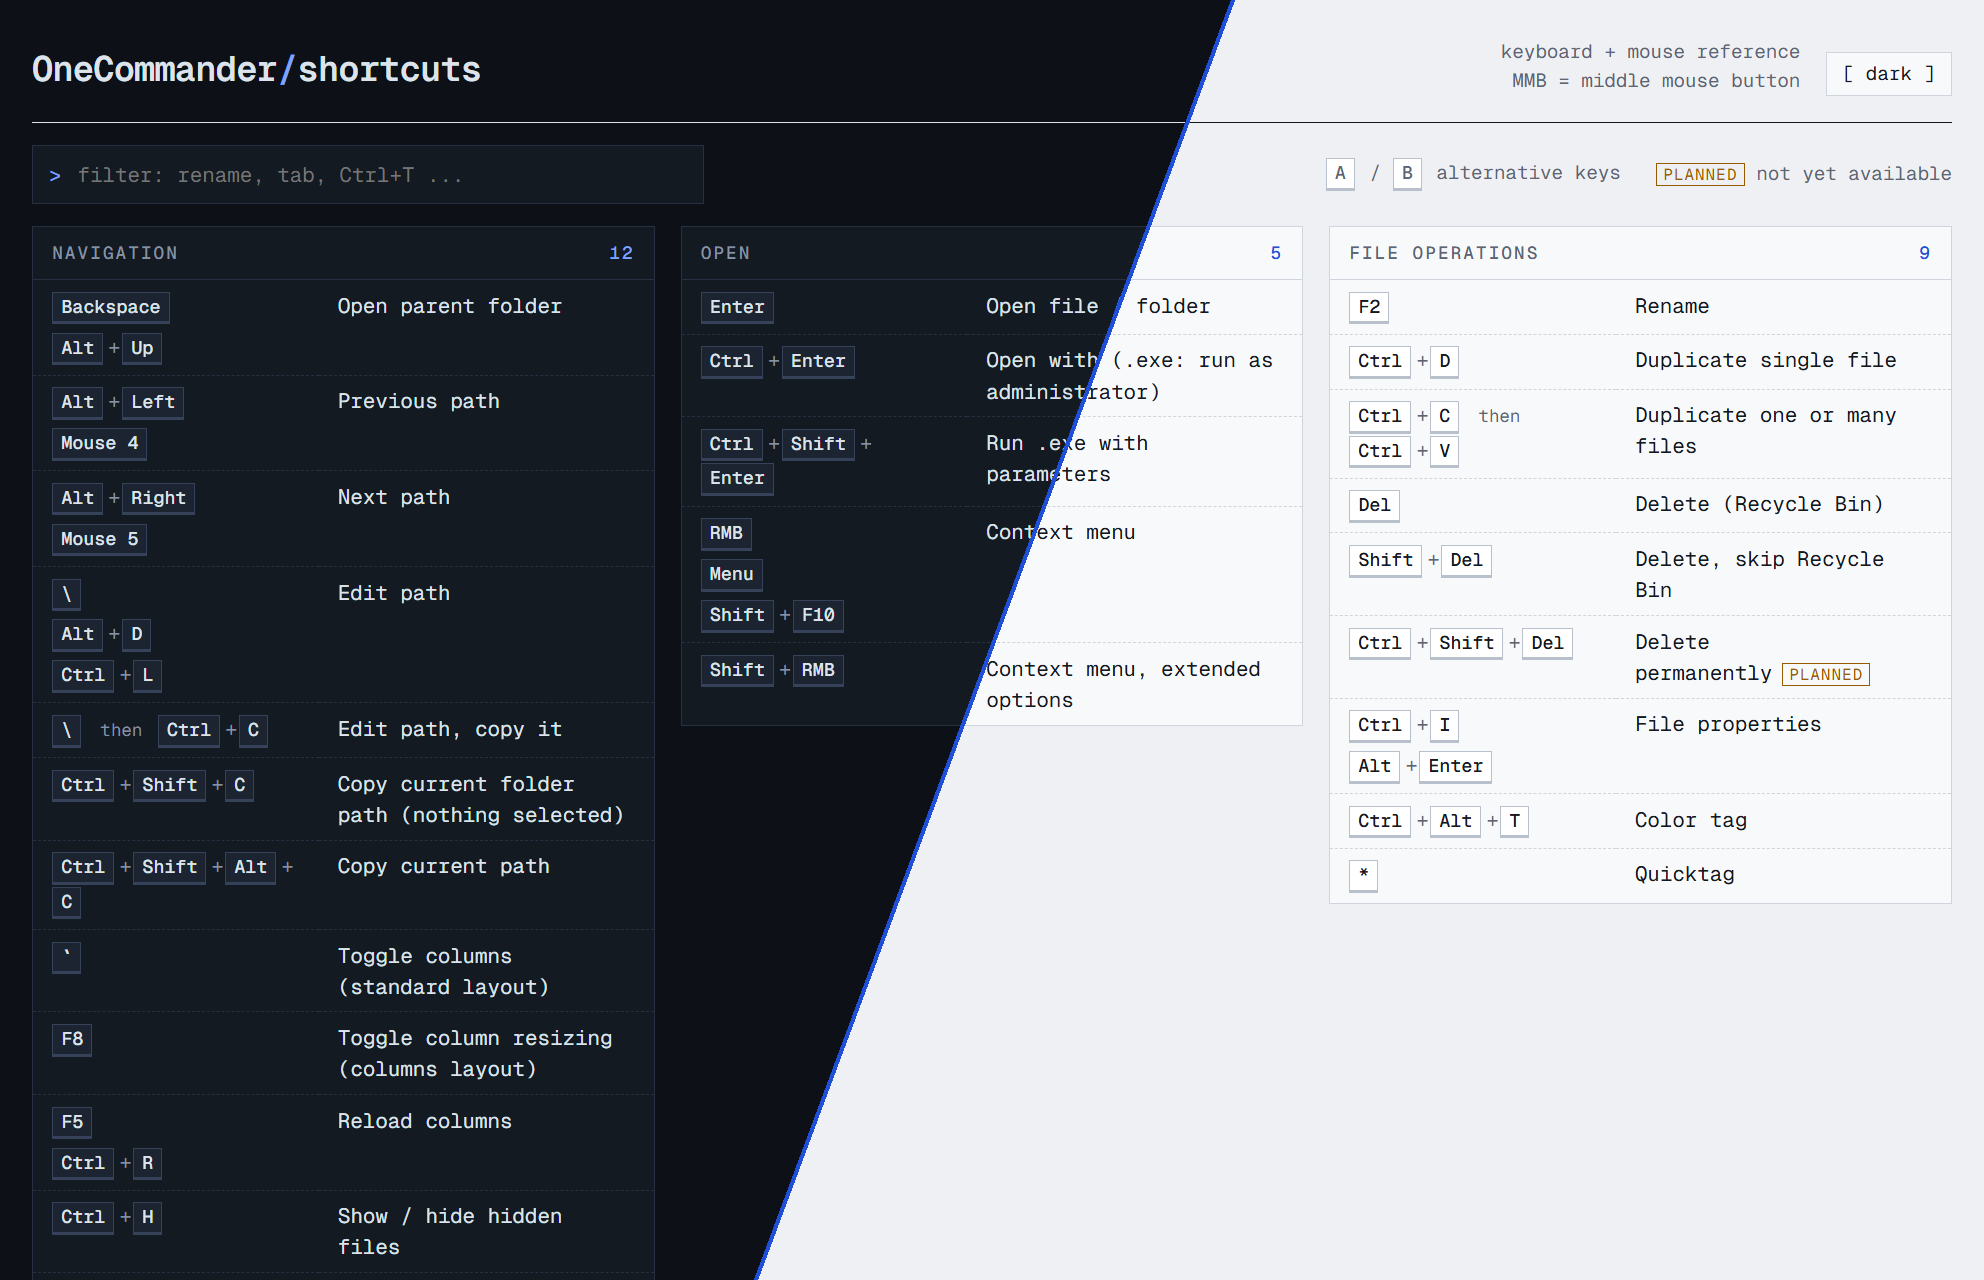
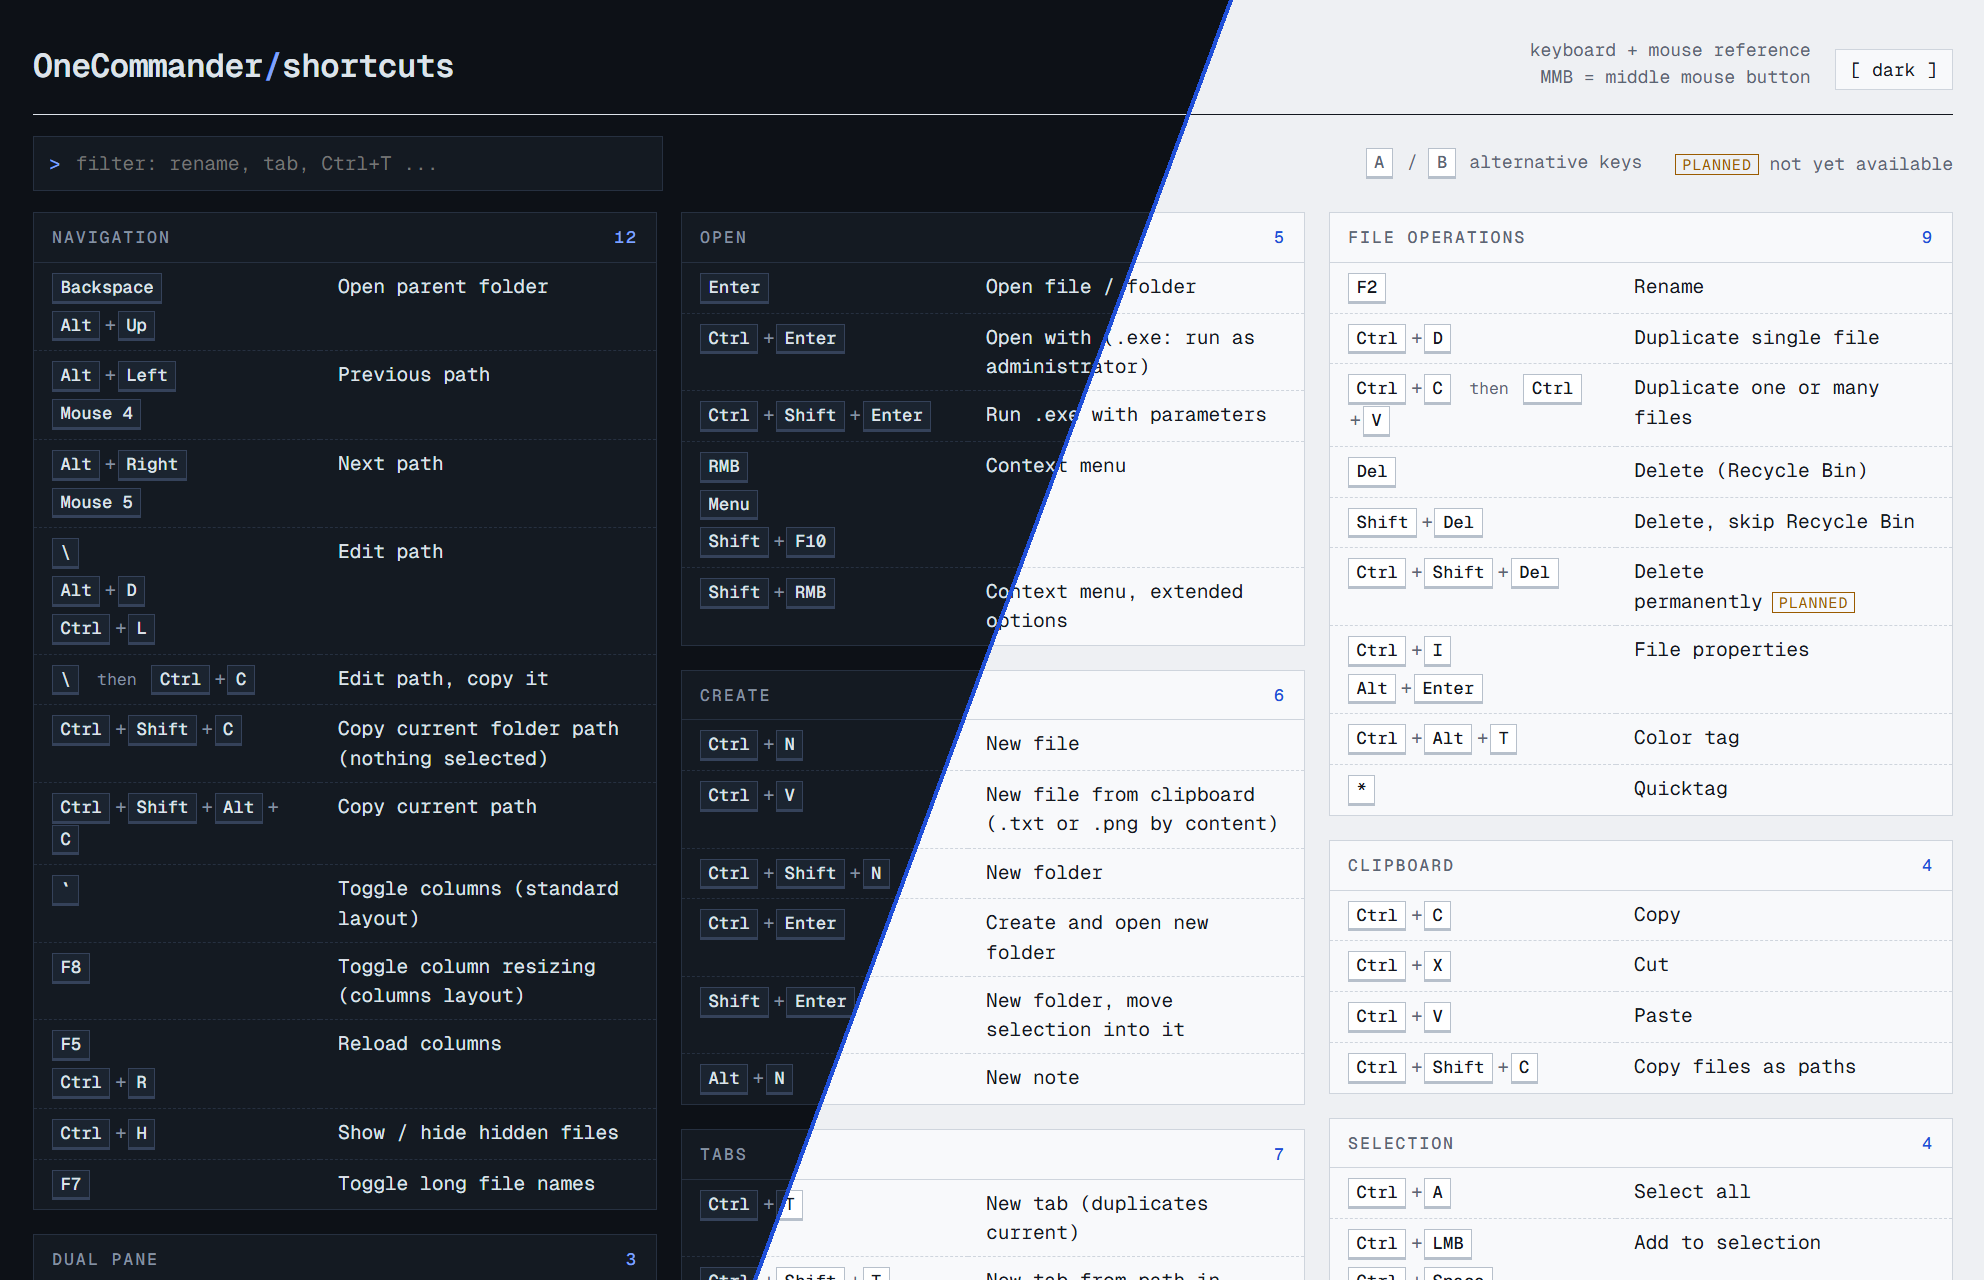
Switch to masonry layout
Sections now stack in columns without gaps under shorter neighbours.
A small script deals them in order into the shortest column and
re-runs on filter, resize and font load. Screenshot regenerated.

diff --git a/onecommander-shortcuts.html b/onecommander-shortcuts.html
@@ -8,7 +8,7 @@
 <link rel="preconnect" href="https://fonts.gstatic.com" crossorigin>
 <link rel="stylesheet" href="https://fonts.googleapis.com/css2?family=Geist+Mono:wght@400;500;600&display=swap">
 <style>
-/* Layout: dense spec-sheet. Header bar, filter input, auto-fit grid of titled tables; keycaps left, action right. */
+/* Layout: dense spec-sheet. Header bar, filter input, masonry columns of titled tables; keycaps left, action right. */
 :root {
   --bg: #eef0f3;
   --panel: #f8f9fb;
@@ -50,7 +50,9 @@ h1 span { color: var(--accent); }
 .search label { color: var(--accent); }
 .search input { flex: 1; min-width: 0; background: none; border: 0; outline: 0; color: var(--fg); font: inherit; }
 .legend { color: var(--muted); font-size: 12px; display: flex; flex-wrap: wrap; gap: 6px 16px; align-items: center; }
-.grid { display: grid; grid-template-columns: repeat(auto-fit, minmax(min(100%, 380px), 1fr)); gap: 16px; align-items: start; }
+/* Masonry: script deals sections in order into the shortest of N columns (N = how many 380px columns fit). */
+.grid { display: flex; gap: 16px; align-items: flex-start; }
+.col { flex: 1 1 0; min-width: 0; display: flex; flex-direction: column; gap: 16px; }
 section { background: var(--panel); border: 1px solid var(--line); min-width: 0; }
 h2 { margin: 0; padding: 8px 12px; font-size: 11px; font-weight: 500; letter-spacing: 0.12em; text-transform: uppercase;
   color: var(--muted); border-bottom: 1px solid var(--line); display: flex; justify-content: space-between; }
@@ -245,6 +247,24 @@ DATA.forEach(([title, rows]) => {
   grid.appendChild(s);
 });
 
+// Masonry: keep section order, put each visible section into the currently shortest column.
+const sections = [...grid.querySelectorAll("section")];
+let frame = 0;
+function layout() {
+  const n = Math.max(1, Math.floor((grid.clientWidth + 16) / (380 + 16)));
+  const cols = Array.from({ length: n }, () => Object.assign(document.createElement("div"), { className: "col" }));
+  grid.replaceChildren(...cols);
+  sections.forEach(s => {
+    if (s.classList.contains("hide")) { cols[n - 1].appendChild(s); return; }
+    const shortest = cols.reduce((a, b) => (b.offsetHeight < a.offsetHeight ? b : a));
+    shortest.appendChild(s);
+  });
+}
+const relayout = () => { cancelAnimationFrame(frame); frame = requestAnimationFrame(layout); };
+layout();
+addEventListener("resize", relayout);
+if (document.fonts) document.fonts.ready.then(relayout);
+
 const q = document.getElementById("q"), empty = document.getElementById("empty");
 q.addEventListener("input", () => {
   const t = q.value.trim().toLowerCase().replace(/\s+/g, " ");
@@ -263,6 +283,7 @@ q.addEventListener("input", () => {
     if (shown) any = true;
   });
   empty.hidden = any;
+  layout();
 });
 </script>
 
